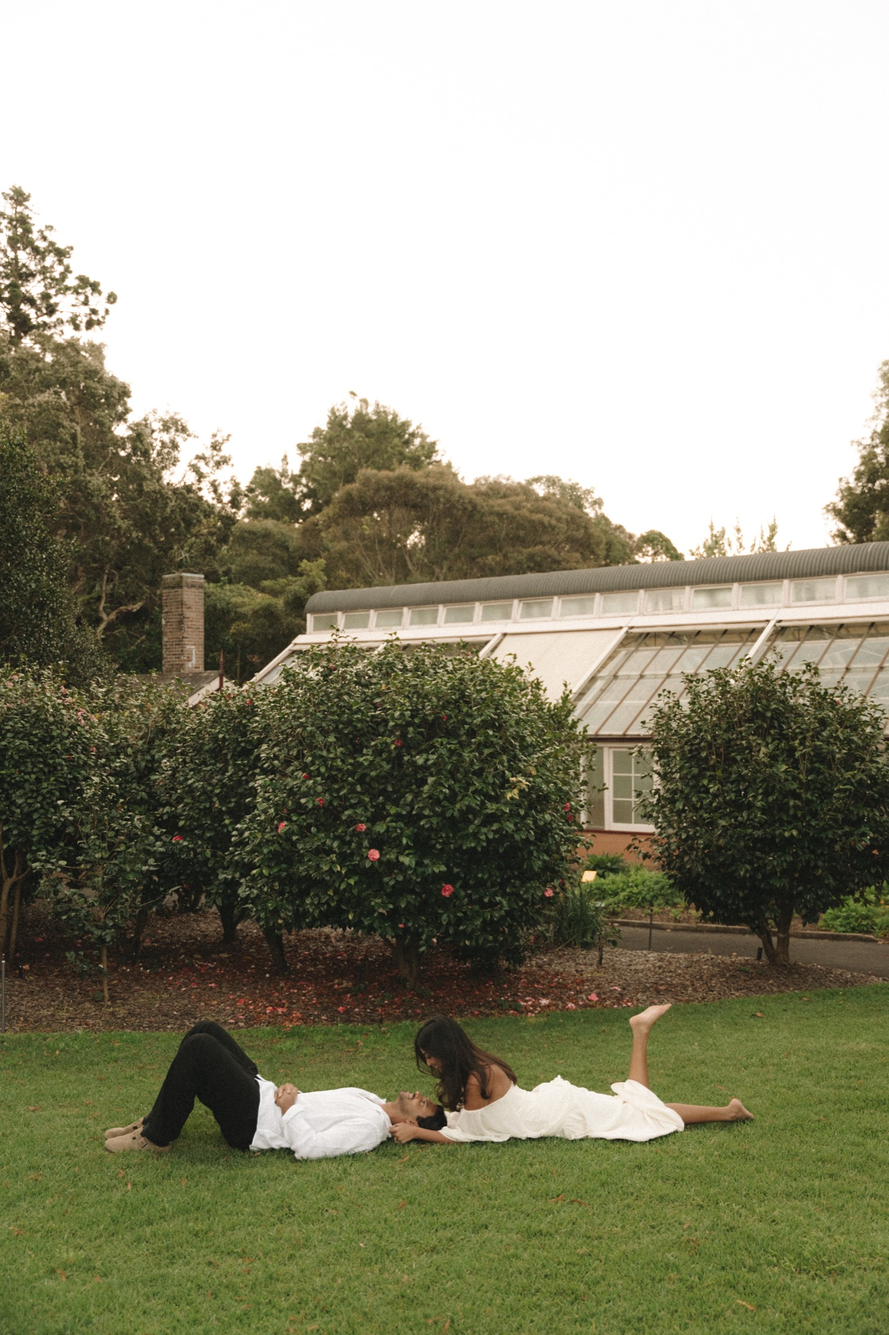
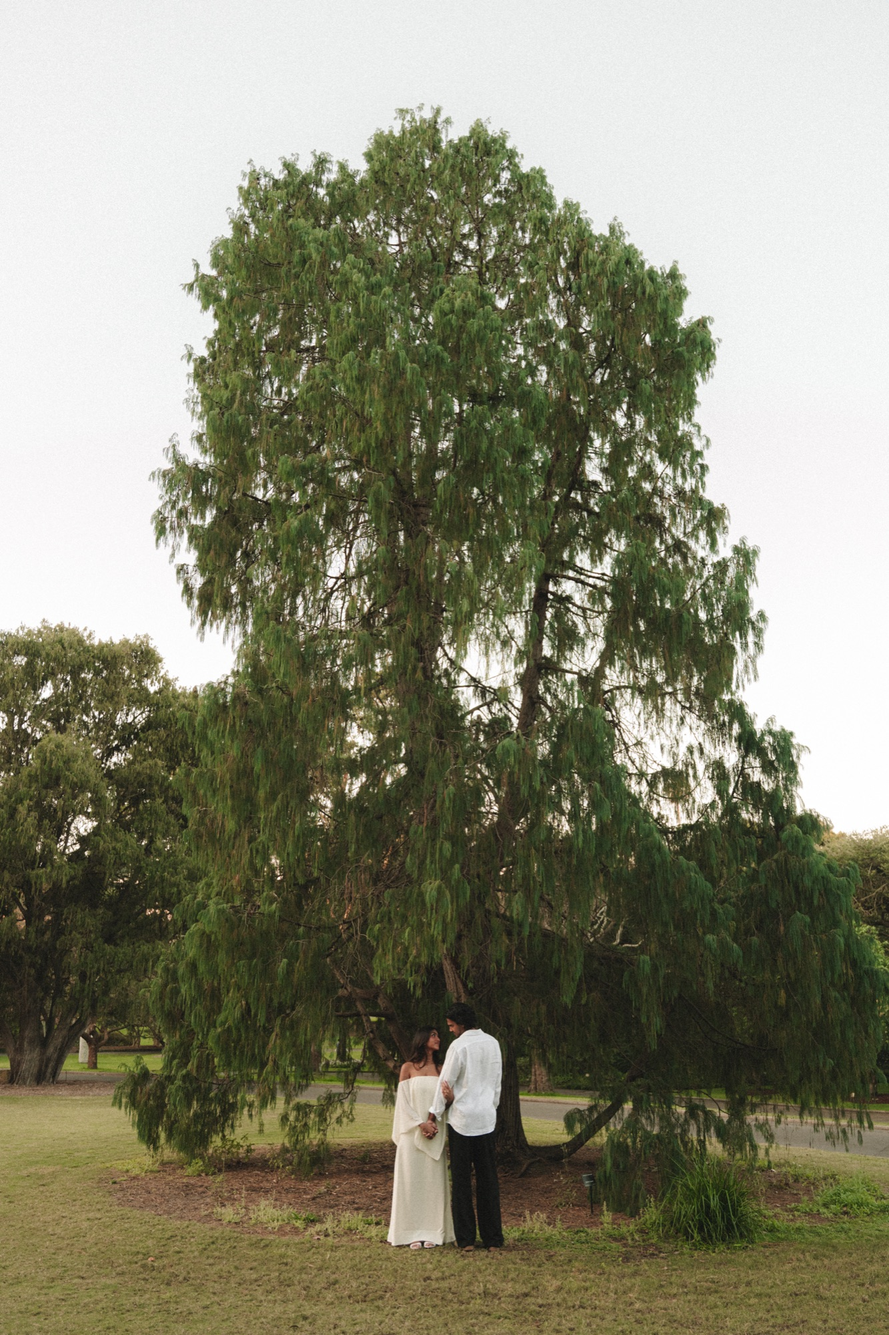
Lead carousel with garden path and forehead photos, swap in tree shot
hero-6 is now IMG_3904 (under the tall tree), replacing the grass shot.

diff --git a/src/app/page.tsx b/src/app/page.tsx
@@ -30,8 +30,8 @@ export default function Home() {
   const photoOpacity = useTransform(scrollYProgress, [0.3, 0.5], [1, 0]);
 
   // Order is provisional; reshuffle by moving entries between the two lists
-  const leftSlides = [1, 2, 3].map((n) => ({ id: n, src: `/photos/hero-${n}.jpg` }));
-  const rightSlides = [4, 6, 5].map((n) => ({ id: n, src: `/photos/hero-${n}.jpg` }));
+  const leftSlides = [3, 1, 2].map((n) => ({ id: n, src: `/photos/hero-${n}.jpg` }));
+  const rightSlides = [5, 4, 6].map((n) => ({ id: n, src: `/photos/hero-${n}.jpg` }));
 
   return (
     <main className="bg-background">
